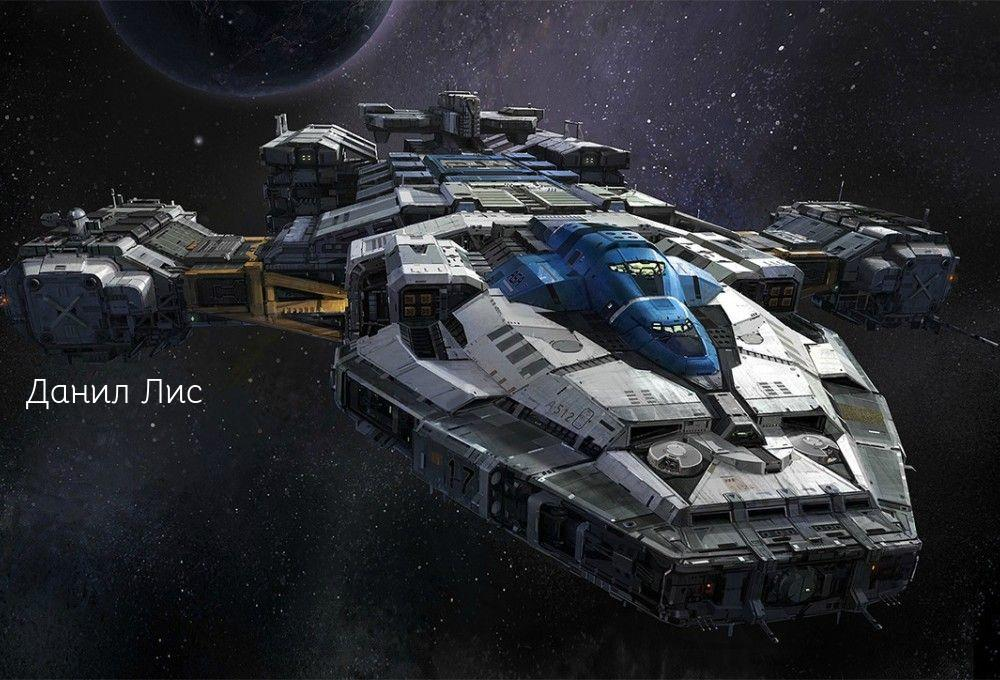
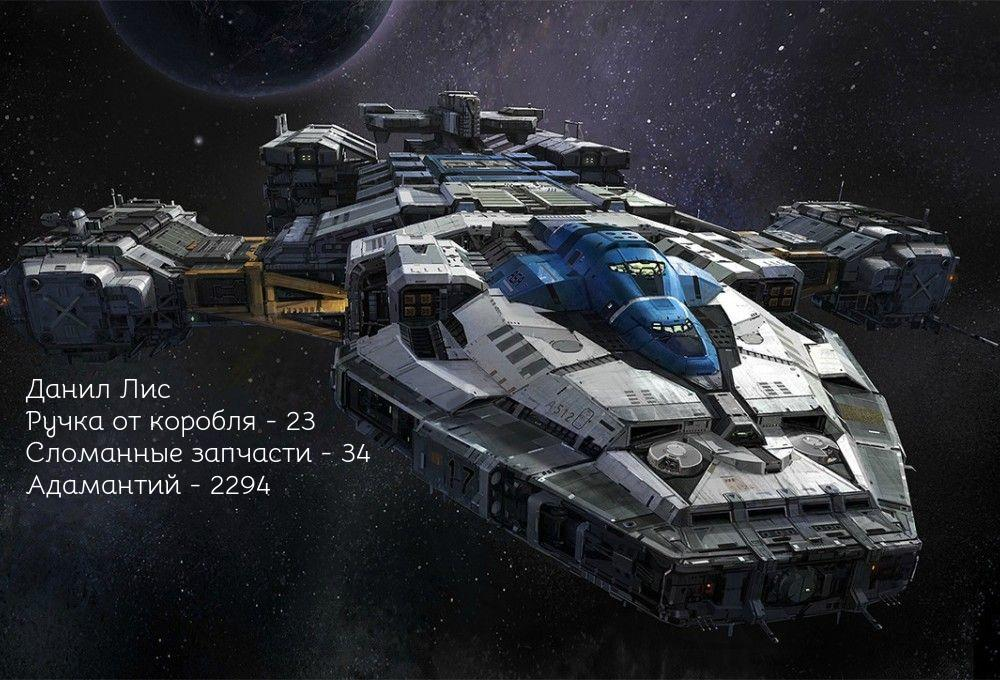
added inventory

Changed region(s): [[0.031, 0.5559, 0.31, 0.7412], [0.031, 0.7103, 0.186, 0.7412], [0.341, 0.6485, 0.372, 0.6794]]

diff --git a/bot_start.py b/bot_start.py
@@ -52,6 +52,7 @@ def create_keyboard(keys, sets=settings_keyboard):
 
 keyboards = {
 	'empty' : create_keyboard(keyboard_empty),
+	'back' : create_keyboard(keyboard_back),
 	'idle' : create_keyboard(keyboard_idle),
 	'main' : create_keyboard(keyboard_main),
 	'sortie' : create_keyboard(keyboard_sortie)
@@ -104,14 +105,26 @@ def photo_messages(img):
 	res = requests.post(url, files={'photo': open(img, 'rb')}).json()
 	result = session_api.photos.saveMessagesPhoto(**res)[0]
 	photo_name = "photo{}_{}".format(result["owner_id"], result["id"])
-	print('Фото ID: '+photo_name)
+	print('Фото ID: '+ photo_name)
 	return photo_name
 
 def get_user_ship(user_id):
+	conn = sqlite3.connect('db/main.db')
+	cur = conn.cursor()
+	cur.execute("SELECT item_id, count FROM users_inventory WHERE owner_id = ? and slot = ?", (user_id, 2))
+	items = cur.fetchall()
+	print(items)
+
 	fullname = get_user_name(user_id)
 	fullname = fullname[0]+' '+fullname[1]
+	if len(items) > 0:
+		for item in items:
+			item_info = check_item(item[0])
+			fullname += '\n' + item_info[1] + ' - ' + str(item[1])
+			# print(str(item[0]) + ' - ' + str(item[1]))
+
 	img = Image.open('images/ship1.jpg')
-	font = ImageFont.truetype('fonts/Bellota-Regular.ttf', size=34)
+	font = ImageFont.truetype('fonts/Bellota-Regular.ttf', size=28)
 	draw_text = ImageDraw.Draw(img)
 	draw_text.text(
 		(25, img.height / 2 + 30),
@@ -183,31 +196,54 @@ def add_item(item_id, user_id, value=1, slot=3, active=None):
 	cur = conn.cursor()
 	cur.execute("SELECT size_inventory_player FROM users WHERE user_id = ?", (user_id,))
 	max_slots = cur.fetchone()[0]
-	cur.execute("SELECT * FROM users_inventory WHERE owner_id = ? AND slot = ?", (user_id, 3,))
+	cur.execute("SELECT * FROM users_inventory WHERE owner_id = ? AND slot = ?", (user_id, slot,))
 	slots = cur.fetchall()
-	print(max_slots)
-	print(slots)
-	print(len(slots))
-	print(slots[0][2])
-	print(slots[1][2])
-	for i in range(0, len(slots) - 1):
-		if slots[i][0] == item_id:
-			cur.execute("SELECT count FROM users_inventory WHERE owner_id = ? AND item_id = ?", (user_id, item_id,))
+	# for i in range(0, len(slots) - 1):
+	for slot in slots:
+		if slot[0] == item_id:
+			cur.execute("SELECT count FROM users_inventory WHERE owner_id = ? AND item_id = ? AND slot = ?", (user_id, item_id, slot))
 			value += cur.fetchone()[0]
-			cur.execute("UPDATE users_inventory SET count = ? WHERE owner_id = ? AND item_id = ?", (value, user_id, item_id,))
+			cur.execute("UPDATE users_inventory SET count = ?, reg_time = ? WHERE owner_id = ? AND item_id = ? AND slot = ?", (value, datetime.now(), user_id, item_id, slot,))
 			conn.commit()
-			return 'Предмет добавлен в инвентарь' 
+			return print('Предмет добавлен в инвентарь и стакнут') 
 	if len(slots) >= max_slots:
-		return 'Не достаточно места'
-	elif len(slots) < max_slots:
-		item_info = (item_id, user_id, value, slot, active)
+		return print('Недостаточно места в инвентаре') 
+	if len(slots) < max_slots:
+		item_info = (item_id, user_id, value, slot, active, datetime.now())
 		cur = conn.cursor()
-		cur.execute("INSERT INTO users_inventory VALUES(?,?,?,?,?);", item_info)
+		cur.execute("INSERT INTO users_inventory VALUES(?,?,?,?,?,?);", item_info)
 		conn.commit()
-		return 'Предмет добавлен в инвентарь'
+		return print('Предмет добавлен в инвентарь') 
+
+def get_items(user_id, slot_from, slot_to):
+	conn = sqlite3.connect('db/main.db')
+	cur = conn.cursor()
+	if slot_to == 2:
+		cur.execute("SELECT size_inventory_ship FROM users WHERE user_id = ?", (user_id,))
+		max_slots = cur.fetchone()[0] # Сколько места на корабле
+		cur.execute("SELECT * FROM users_inventory WHERE owner_id = ? AND slot = ?", (user_id, slot_from,))
+		user_slots = cur.fetchall()
+
+		for slot in user_slots:
+			cur.execute("SELECT * FROM users_inventory WHERE owner_id = ? AND slot = ? AND item_id = ?", (user_id, slot_to, slot[0],))
+			current_ship_slot = cur.fetchone()
+			if len(current_ship_slot) != 0:
+				value = current_ship_slot[2] + slot[2]
+				cur.execute("UPDATE users_inventory SET count = ?, reg_time = ? WHERE owner_id = ? AND item_id = ? AND slot = ?", (value, datetime.now(), user_id, slot[0], slot_to,))
+				conn.commit()
+				cur.execute("DELETE FROM users_inventory WHERE item_id = ? AND owner_id = ? AND slot = ?", (slot[0], slot[1], slot[3],))
+				conn.commit()
+			elif len(current_ship_slot) == 0:
+				cur.execute("SELECT * FROM users_inventory WHERE owner_id = ? AND slot = ?", (user_id, slot_to,))
+				ship_slots = cur.fetchall() 
+				now_ship_slots = len(ship_slots) # Кол-во вещей на корабле
+				if now_ship_slots < max_slots:
+					cur.execute("UPDATE users_inventory SET slot = ?, reg_time = ? WHERE owner_id = ? AND item_id = ?", (slot_to, datetime.now(), user_id, slot[0],))
+					conn.commit()
 
 
-	# return result
+
+
 
 def add_money(user_id, value):
 	conn = sqlite3.connect('db/main.db')
@@ -243,9 +279,7 @@ def create_sortie(user_id, state_planet):
 	state_off = 3
 	state_info = 'на планете'
 	status_planet = check_status_planet(state_planet)
-
 	change_state(user_id, state_on, state_info, None)
-
 
 
 	while state_on == 2:
@@ -265,17 +299,27 @@ def create_sortie(user_id, state_planet):
 			add_item(ore[0], user_id, count, 3)
 			send_message_to_user(user_id, text)
 
+		elif situation > 3 and situation < 8: # Хлам
+			trash = check_item(random.choice(status_planet[8].split(',')))
+			text = 'Вы нашли немного хлама \n'
+			text += 'Получено: ' + trash[1]
+			add_item(trash[0], user_id, 1, 3)
+			send_message_to_user(user_id, text)
 
-		elif situation >= 4: # Исследование
+		elif situation >= 8: # Исследование
 			text = 'Вы нашли немного монет \n'
 			count = status_planet[5] + random.randint(-20, 20)
 			text += 'Получено: Кредиты' + ' - ' + str(count) + ' шт.'
 			add_money(user_id, count)
 			send_message_to_user(user_id, text)
 
-		send_message_to_user(user_id, 'Продолжаем путь...')
+		if state_on == 2:
+			send_message_to_user(user_id, 'Продолжаем путь...')
 
-	# change_state(user_id, None, None, None)
+	send_message_to_user_keyboard(user_id, 'Вы возвращаетесь к кораблю...', 'empty')
+	change_state(user_id, 2, 'возвращение с планеты', None)
+	time.sleep(10)
+	change_state(user_id, None, None, None)
 	send_message_to_user_keyboard(user_id, 'Вы вернулись обратно на орбиту', 'main')
 
 
@@ -355,7 +399,6 @@ for event in longpoll.listen():
 							get_user_ship(event.user_id)
 							ship_img = photo_messages('user_ships/ship' + str(event.user_id))
 							send_message_to_user_keyboard(event.user_id, 'Ваш корабль', 'main', ship_img)
-							print(add_item(1, event.user_id))
 
 						elif response == 'покинуть планетную систему': # ВЫБОР СИСТЕМЫ
 							keyboard = VkKeyboard(**settings_keyboard)
@@ -392,13 +435,14 @@ for event in longpoll.listen():
 							send_message_to_user_keys(event.user_id, 'Выберите планету:', keys)
 
 
-						# elif response == 'вылазка':
-						# 	send_message_to_user_keyboard(event.user_id, 'Выберите вашу цель визита на планету:', 'sortie')
+						elif response == 'забрать':
+							get_items(event.user_id, 3, 2)
+							send_message_to_user(event.user_id, 'Вы перенесли предметы на корабль')
 
 
 						elif response == 'вылазка':
 							sortie = threading.Thread(target=create_sortie, args=(event.user_id, state_planet,))
-							send_message_to_user_keyboard(event.user_id, 'Вы вылетаете на планету и начинаете её исследование. \n (Следите за состоянием своего героя)', 'empty')
+							send_message_to_user_keyboard(event.user_id, 'Вы вылетаете на планету и начинаете её исследование. \n (Следите за состоянием своего героя)', 'back')
 							sortie.start()
 
 					if response == 'назад':
@@ -418,7 +462,8 @@ for event in longpoll.listen():
 
 					if response == 'вернуться':
 						change_state(event.user_id, None, None, None)
-						send_message_to_user_keyboard(event.user_id, 'Вы возвращаетесь к кораблю...', 'main')
+						send_message_to_user(event.user_id, 'Подготовка к возрату')
+						
 						
 
 

diff --git a/keyboards_list.py b/keyboards_list.py
@@ -6,6 +6,10 @@ keyboard_idle = {
 	'Ожидайте...' : VkKeyboardColor.SECONDARY
 }
 
+keyboard_back = {
+	'Вернуться' : VkKeyboardColor.NEGATIVE
+}
+
 keyboard_main = {
 	'Сменить планету' : VkKeyboardColor.POSITIVE,
 	'Вылазка' : VkKeyboardColor.PRIMARY,
